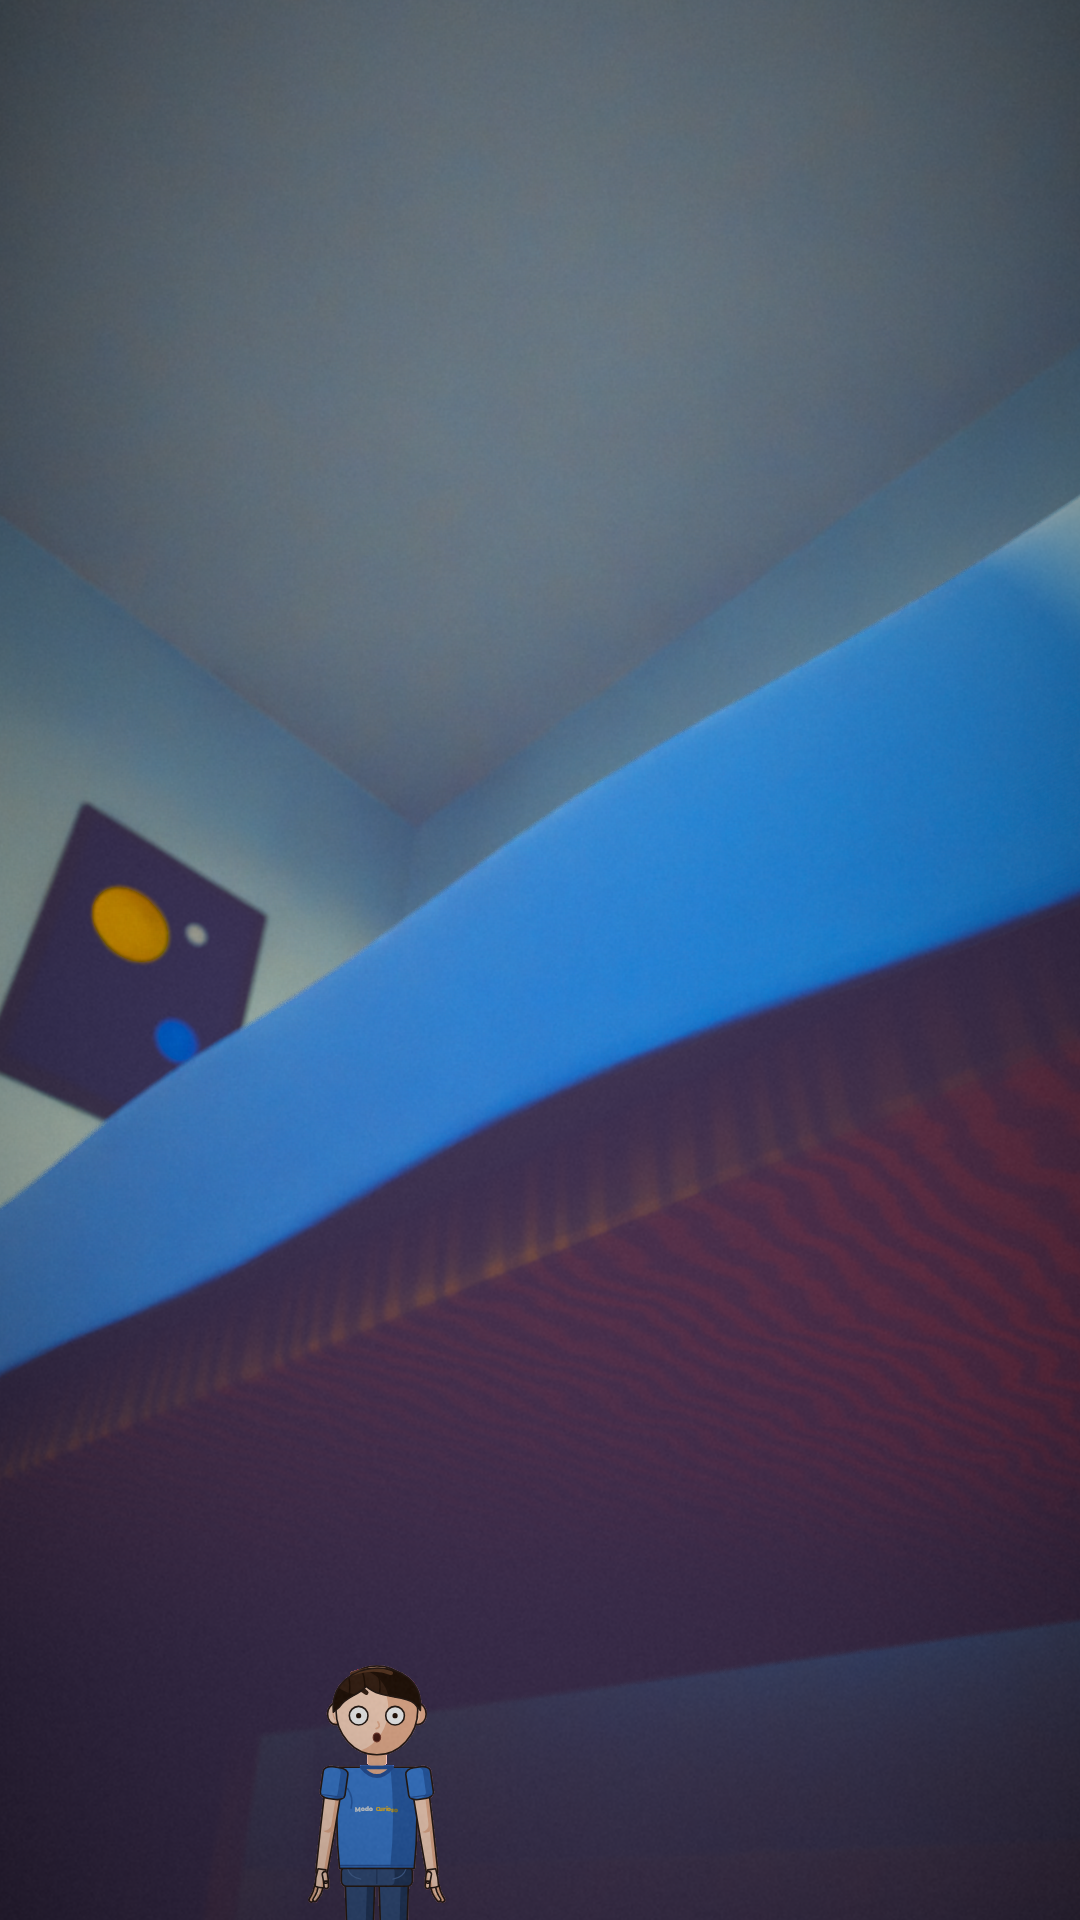
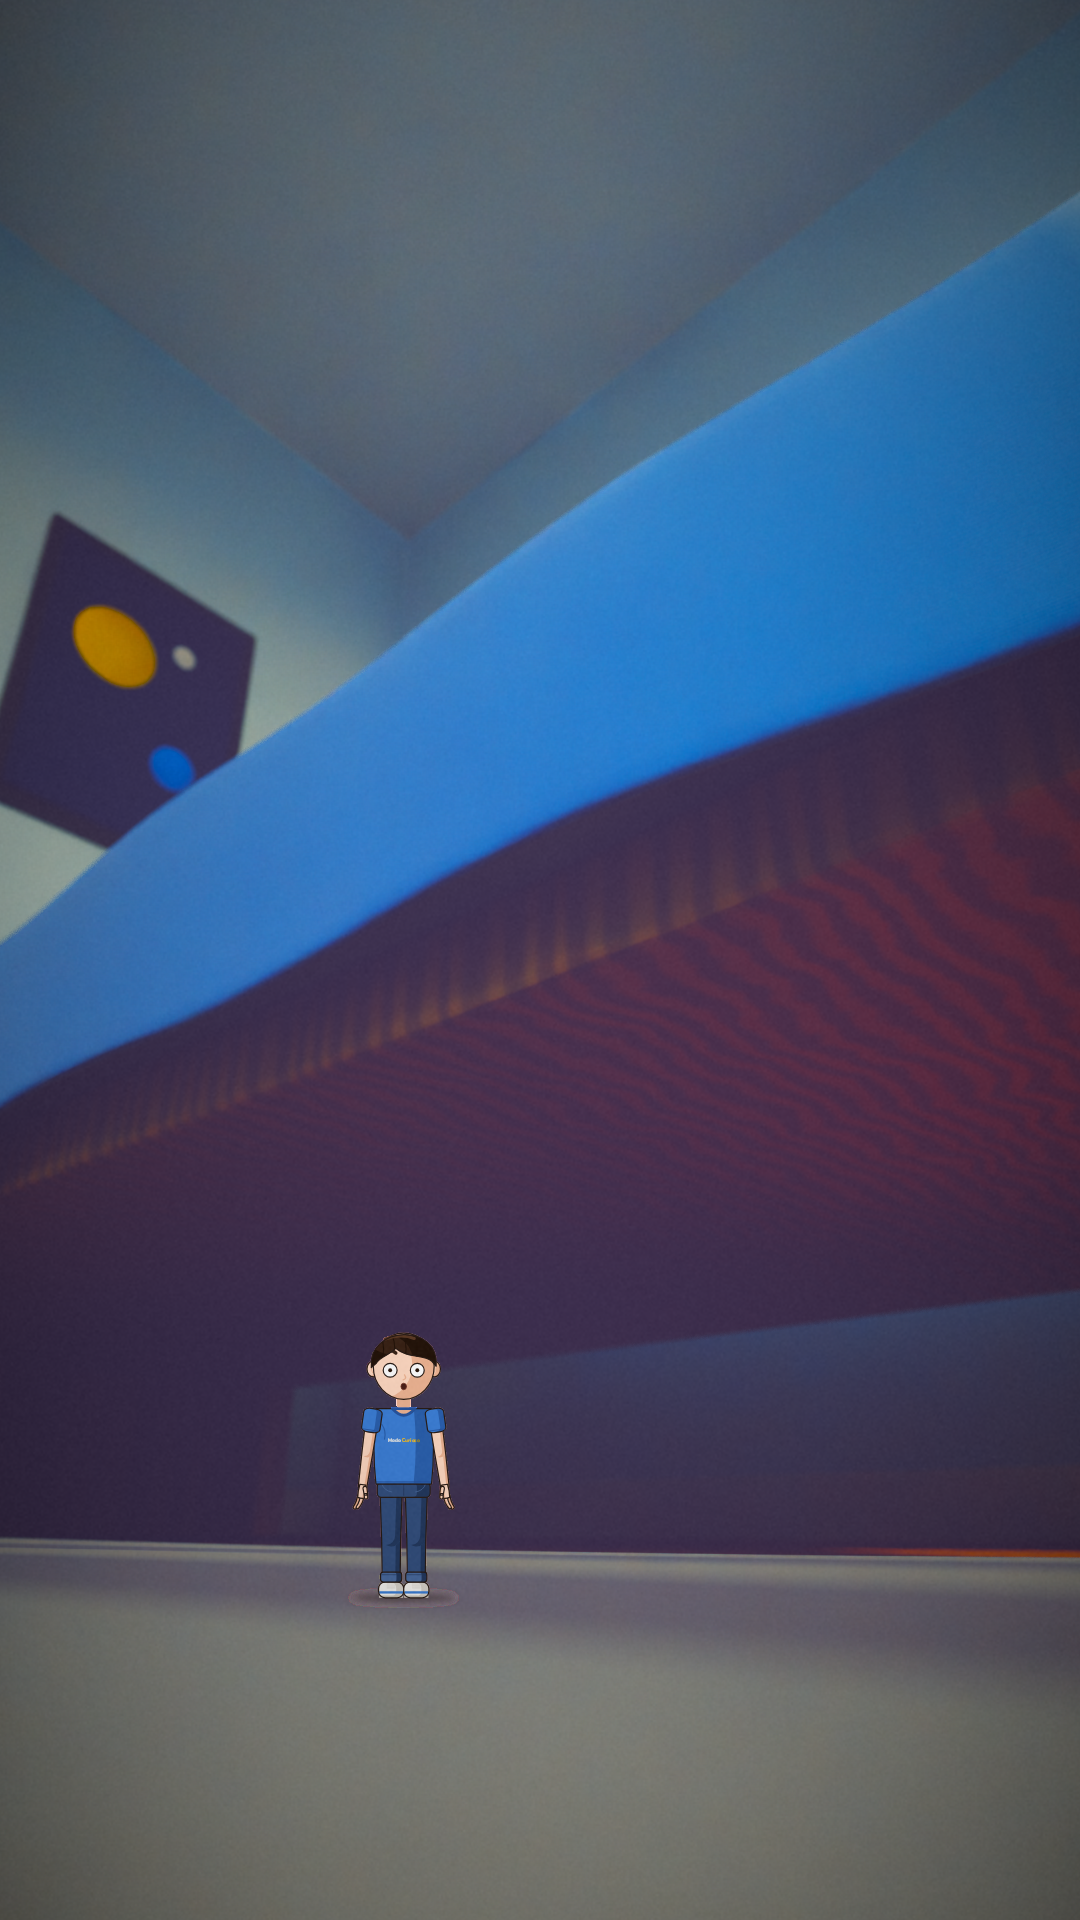
E10 parte 1: plano B refeito, folha final dos 4 planos e relatório
Claude-Session: https://claude.ai/code/session_011EYkUQs91cFecP9FoWchAQ

diff --git a/CLAUDE.md b/CLAUDE.md
@@ -13,7 +13,7 @@ Responda em português do Brasil. O usuário é o diretor do estúdio. Ele aprov
 - Piloto técnico 01 (10 s) produzido em `pilotos/piloto_01_ultimo_homem/` e **aguardando avaliação do diretor**. Feito com o rig v1, hoje substituído pelo v2; voz temporária espeak-ng.
 - **Rig oficial do Heitor: v2** em `personagens/heitor/rig_v2/` (aprovado pelo diretor em 25/11/2026; F1–F4, `RELATORIO_FINAL.md`). Use-o em toda produção nova; ele substitui o rig v1. QA do personagem: `verificar_f1.py`, `verificar_cotovelos.py`, oclusão da marca no cenário.
 - **Cenografia** (`cenografia/`): direção aprovada (procedural no Blender + efeitos 2D/2.5D; estilizado cinematográfico; bairro urbano brasileiro; sem sites externos; ordem dos poderes: eletricidade, terra, voo, aranha, elasticidade). E0 a E6 **aprovadas** (cena de prova: `cenografia/testes/e6/E6_cena_prova.mp4`); E7 (núcleo de efeitos em `efeitos/`) **aprovada**; E8 parte 1 (poderes eletricidade e terra, `efeitos/poderes/`) **aprovada** (`cenografia/testes/E8_RELATORIO.md`). **Extensão X1 "tom de luz no personagem" aprovada** em 26/11/2026 (`personagens/heitor/extensoes/x1_tom_de_luz/`; fora do rig; força padrão, sem ajuste): usar `tom_personagem=fazer_tom(...)` nas composições novas com o Heitor. Borda do compositor (camada não pré-multiplicada somada como pré-multiplicada): **o diretor decidiu NÃO corrigir**. **Extensão X2 "voo" aprovada** em 26/11/2026 (`personagens/heitor/extensoes/x2_voo/`; poses de voo, corpo inclinado, roupa e cabelo ao vento, barra solta sobre o cós do jeans; fora do rig): usar `voo.desenhar(...)` nos planos de voo. **E8 parte 2 (poder de voo, `efeitos/poderes/voo.py`) aprovada** em 26/11/2026 ("Pode continuar"; `cenografia/testes/E8_VOO_RELATORIO.md`). Achados em aberto, sem decisão do diretor (NÃO corrigir sem autorização): núcleo de efeitos lê o skia não pré-multiplicado (brilhos 5,6× mais fortes que o desenhado); auxiliar `altura_pelve` da X2 induz pés afundados ao agachar. **Extensão X3 "aranha" aprovada** em 26/11/2026 (`personagens/heitor/extensoes/x3_aranha/`; escalada, balanço no fio, gesto de lançar próprio; fora do rig). **E8 parte 3 (poder de aranha, `efeitos/poderes/aranha.py`) aprovada** em 26/11/2026 (`cenografia/testes/E8_ARANHA_RELATORIO.md`). **Extensão X4 "elasticidade" aprovada** em 26/11/2026 (`personagens/heitor/extensoes/x4_elasticidade/`; estica só antebraço e coxa pelo escorço do rig; usar `elasticidade.desenhar`). **E8 parte 4 (poder de elasticidade, `efeitos/poderes/elasticidade.py`) aprovada** em 26/11/2026 (`cenografia/testes/E8_ELASTICIDADE_RELATORIO.md`). **E9 (combinações de poderes, `cenografia/testes/E9_RELATORIO.md`) e relatório final da fase (`cenografia/RELATORIO_FINAL.md`) entregues e aguardando aprovação.** Voo, aranha e elasticidade só depois da aprovação específica das extensões do rig (apresentar cada uma à parte). Nenhuma extensão do rig sem aprovação específica.
-- **Narração (em teste):** integração MiniMax T2A V2 em `narracao/` (cliente com orçamento, cache e registro; diretor de narração; T0 OK sem rede). Voz candidata oficial `Portuguese_CaptivatingStoryteller` (voz do sistema MiniMax, escolhida pelo diretor em 26/11/2026; listada pela API, síntese ainda não testada); o clone `moss_audio_f28d61d6-…` (Matheus) é proibido, sem troca automática de voz. **Créditos limitados (plano Starter US$ 5): nenhuma síntese sem autorização registrada em `narracao/orcamento.json`; contar caracteres antes; nunca repetir chamada sem avaliar cobrança.** T1 feito (chave autentica em api.minimax.io); T2 recusado com código 1008 (sem saldo na API: o plano Starter é do site MiniMax Audio, não da API). **Novo fluxo aprovado em 26/11/2026:** o diretor gera no site MiniMax Audio e envia o áudio + texto; a pós-produção é `narracao/pos/` (`processar.py ficha | analisar | finalizar`; F0 sintética 28/28 OK). Pausas por intenção até 0,7 s (nunca ≥ 0,8 s), narração em −16 LUFS / −1,5 dBTP, alinhamento por espeak-ng + DTW. Alinhamento principal: Whisper local (faster-whisper "medium"; rede libera o Hugging Face). **EP01 (5 cm):** narração oficial = 1ª geração do diretor, em "você" (`producoes/ep01_cinco_centimetros/narracao_falada.txt`), pós-produção em `narracao/edicoes/ep01_narracao/` (110,2 s, QA 13/13), aguardando avaliação do diretor. Próximo: extensão de cenografia e personagens do EP01 (quarto, objetos, aranha, gato), autorizada; F2 calibra o preset.
+- **Narração (em teste):** integração MiniMax T2A V2 em `narracao/` (cliente com orçamento, cache e registro; diretor de narração; T0 OK sem rede). Voz candidata oficial `Portuguese_CaptivatingStoryteller` (voz do sistema MiniMax, escolhida pelo diretor em 26/11/2026; listada pela API, síntese ainda não testada); o clone `moss_audio_f28d61d6-…` (Matheus) é proibido, sem troca automática de voz. **Créditos limitados (plano Starter US$ 5): nenhuma síntese sem autorização registrada em `narracao/orcamento.json`; contar caracteres antes; nunca repetir chamada sem avaliar cobrança.** T1 feito (chave autentica em api.minimax.io); T2 recusado com código 1008 (sem saldo na API: o plano Starter é do site MiniMax Audio, não da API). **Novo fluxo aprovado em 26/11/2026:** o diretor gera no site MiniMax Audio e envia o áudio + texto; a pós-produção é `narracao/pos/` (`processar.py ficha | analisar | finalizar`; F0 sintética 28/28 OK). Pausas por intenção até 0,7 s (nunca ≥ 0,8 s), narração em −16 LUFS / −1,5 dBTP, alinhamento por espeak-ng + DTW. Alinhamento principal: Whisper local (faster-whisper "medium"; rede libera o Hugging Face). **EP01 (5 cm):** narração oficial = 1ª geração do diretor, em "você" (`producoes/ep01_cinco_centimetros/narracao_falada.txt`), pós-produção em `narracao/edicoes/ep01_narracao/` (110,2 s, QA 13/13), aguardando avaliação do diretor. **E10 (cenários do EP01, autorizada):** parte 1 entregue (`cenografia/componentes/interior.py`, quarto em escala macro, 4 planos em `cenografia/testes/e10/`, relatório `cenografia/testes/E10_RELATORIO.md`); próxima: parte 2 (escada, sala com gato, aranha, vento/poça, insert científico). F2 calibra o preset de voz.
 - **Não iniciar produção em escala nem novos pilotos sem autorização explícita do usuário.**
 - Pendências do usuário: aprovar a arquitetura; plano e chave da ElevenLabs; liberar hosts na rede; biblioteca de música e SFX; Git LFS liberado quando tecnicamente necessário (ainda não usado).
 

diff --git a/cenografia/testes/E10_RELATORIO.md b/cenografia/testes/E10_RELATORIO.md
@@ -1,0 +1,47 @@
+# E10 parte 1 — quarto do EP01 em escala macro (teste; não é o episódio)
+
+26/11/2026. Autorizada pelo diretor dentro da produção do EP01 ("E se você acordasse com apenas 5 centímetros?").
+- **O que não mudou:** o Heitor rig v2, o núcleo da cenografia e as etapas E0–E9. O kit novo só registra componentes.
+- **Como a escala é feita:** o quarto tem medidas reais e o Heitor entra no compositor com **0,05 m** de altura, ou seja, 28 vezes menor que os 1,40 m dele.
+
+## Entregas
+| Peça | Onde |
+|---|---|
+| Kit de interior (16 componentes, materiais com relevo para close) | `cenografia/componentes/interior.py` |
+| Receita do quarto (manhã) | `cenografia/receitas/e10_quarto.json` |
+| Teste dos 4 planos | `cenografia/testes/e10_testes.py` → `cenografia/testes/e10/` |
+
+## Os 4 planos (1080×1920, Heitor rig v2 sem alteração)
+Valores medidos:
+
+| Plano | Situação da decupagem | Câmera | Foco / abertura | Heitor | Render |
+|---|---|---|---|---|---|
+| A_despertar | em cima do edredom: o travesseiro vira montanha | 2,2 cm acima do edredom, 20 mm | 0,224 m / f4 | 363 px, a 0,22 m | 469 s |
+| B_cama_predio | do chão: a lateral da cama sobe como um prédio | 1,2 cm do chão, 14 mm | 0,256 m / f5,6 | 265 px, a 0,22 m | 454 s |
+| C_moeda | moeda de 27 mm do tamanho de uma mesa; gotas, migalhas, poeira | 5 cm do chão, 28 mm | 0,173 m / f4 | 643 px, a 0,18 m | 396 s |
+| D_celular | o celular de 15 cm de pé vira um painel aceso | 2,4 cm acima do tampo, 20 mm | 0,199 m / f4 | 413 px, a 0,19 m | 467 s |
+
+- **QA da cena** (Blender, antes do render): nenhuma peça flutuando nos 4 planos e **nenhum texto 3D** (a lista permitida é vazia). Peças apoiadas em outras (estrado, gaveta, travesseiros, celular no suporte, cortinas, quadro) estão marcadas como apoiadas.
+- **Sem marcas:**
+  - a moeda é genérica, com aro e núcleo de dois metais, sem reproduzir desenho de moeda real;
+  - a tela do celular é um degradê abstrato;
+  - o quadro é arte geométrica;
+  - o carrinho é um brinquedo genérico.
+- **Luz da manhã:**
+  - sol pela janela (a janela foi posta onde o sol da manhã atinge a cama);
+  - luz difusa do céu pelo vão da janela (grupo "ceu");
+  - tela do celular no grupo "artificial";
+  - abajur apagado (só acende quando a receita pede).
+- **Gradação do interior:** exposição +0,55, saturação 1,6, grão 0,006. É mais aberta que a da rua, que deixava o quarto escuro demais.
+
+## Limitações e próximos ajustes (vistos nas imagens)
+1. **Moiré** na lateral do edredom vista de longe (plano B): a trama do tecido (0,7 mm) fica do tamanho de um pixel. Correção prevista: reduzir o relevo da trama com a distância.
+2. O sol direto aparece pouco nos 4 enquadramentos; a luz dominante é a difusa da janela. Para mais calor, posso mover o Heitor para a mancha de sol ou ajustar a janela.
+3. O Heitor está na pose base (frente, braços ao lado do corpo), com troca só de expressão. As poses de cena (acordar, olhar para cima, recuar) vêm na animação.
+4. Render de ~7–8 min por plano em CPU (32 amostras nas camadas principais + OIDN).
+
+## Próxima: E10 parte 2
+- **Escada:** degraus de 18 cm vistos como paredões.
+- **Sala com o gato:** gato e aranha como personagens 2D originais.
+- **Sobrevivência:** vento na janela e poça.
+- **Insert científico:** quadrado-cubo, peso ÷21.952 e força ÷784.
